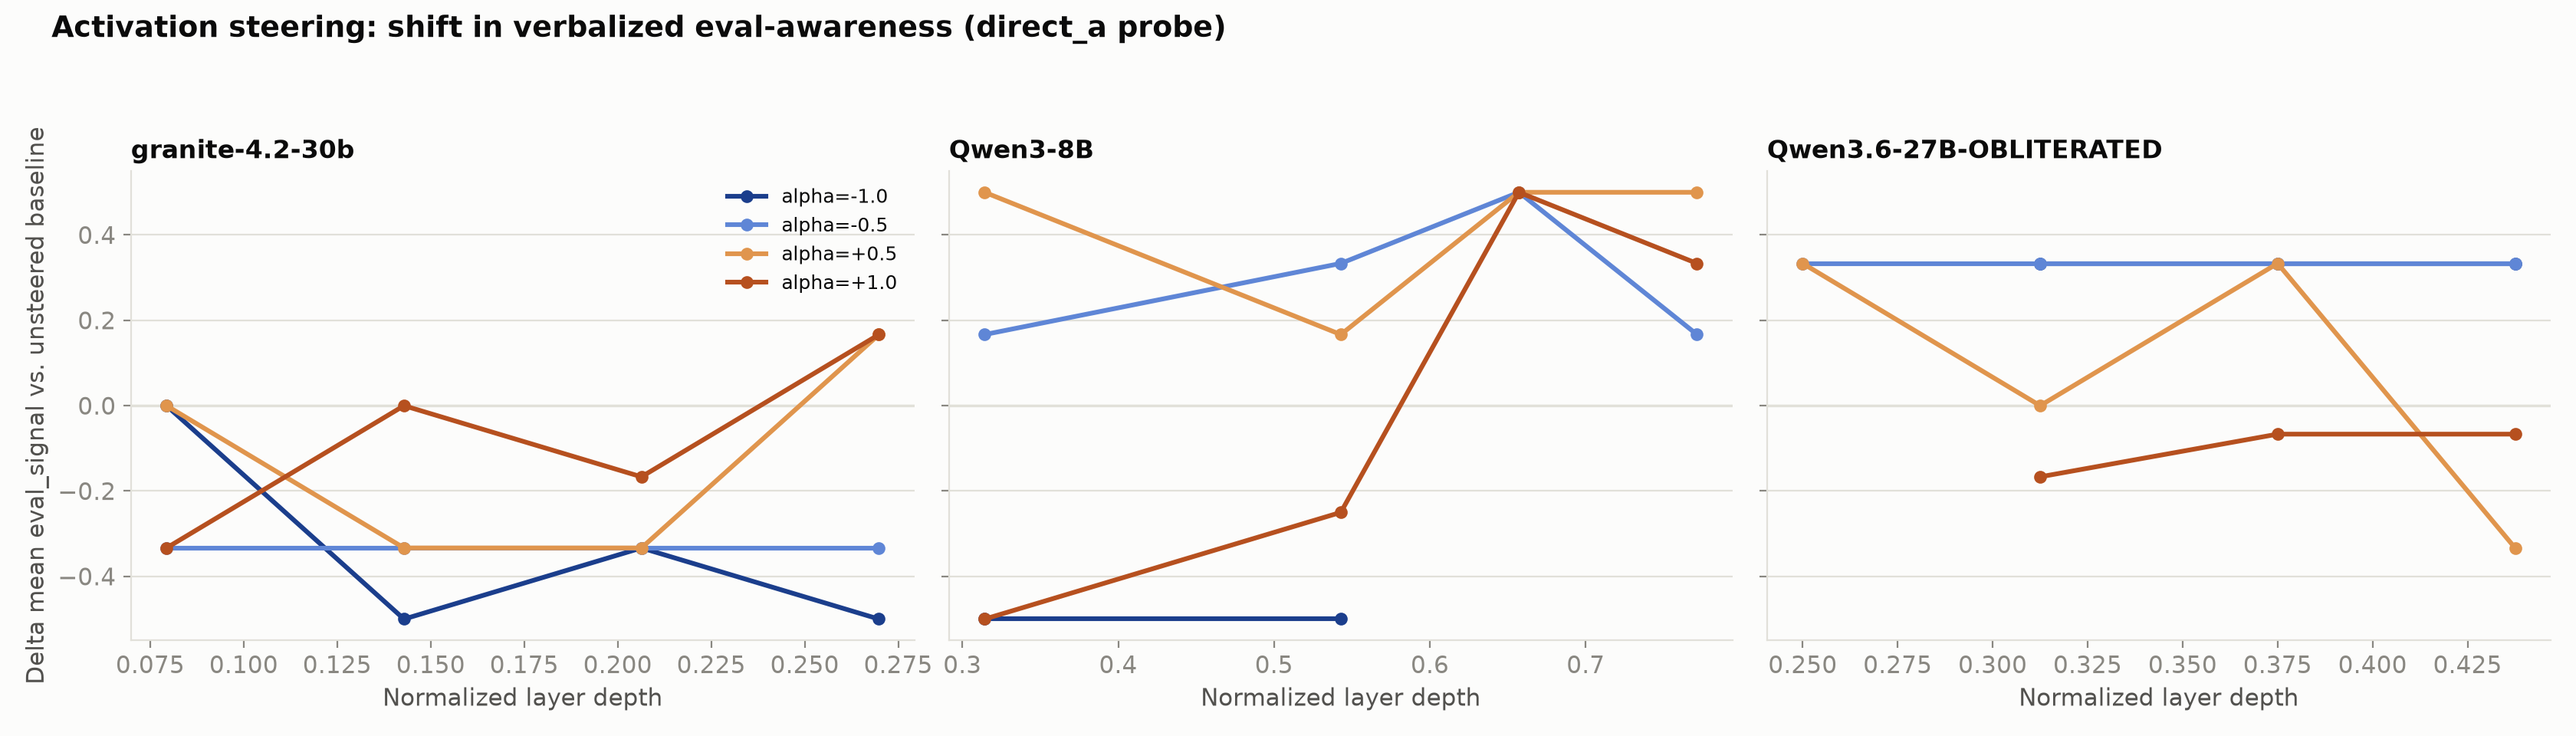
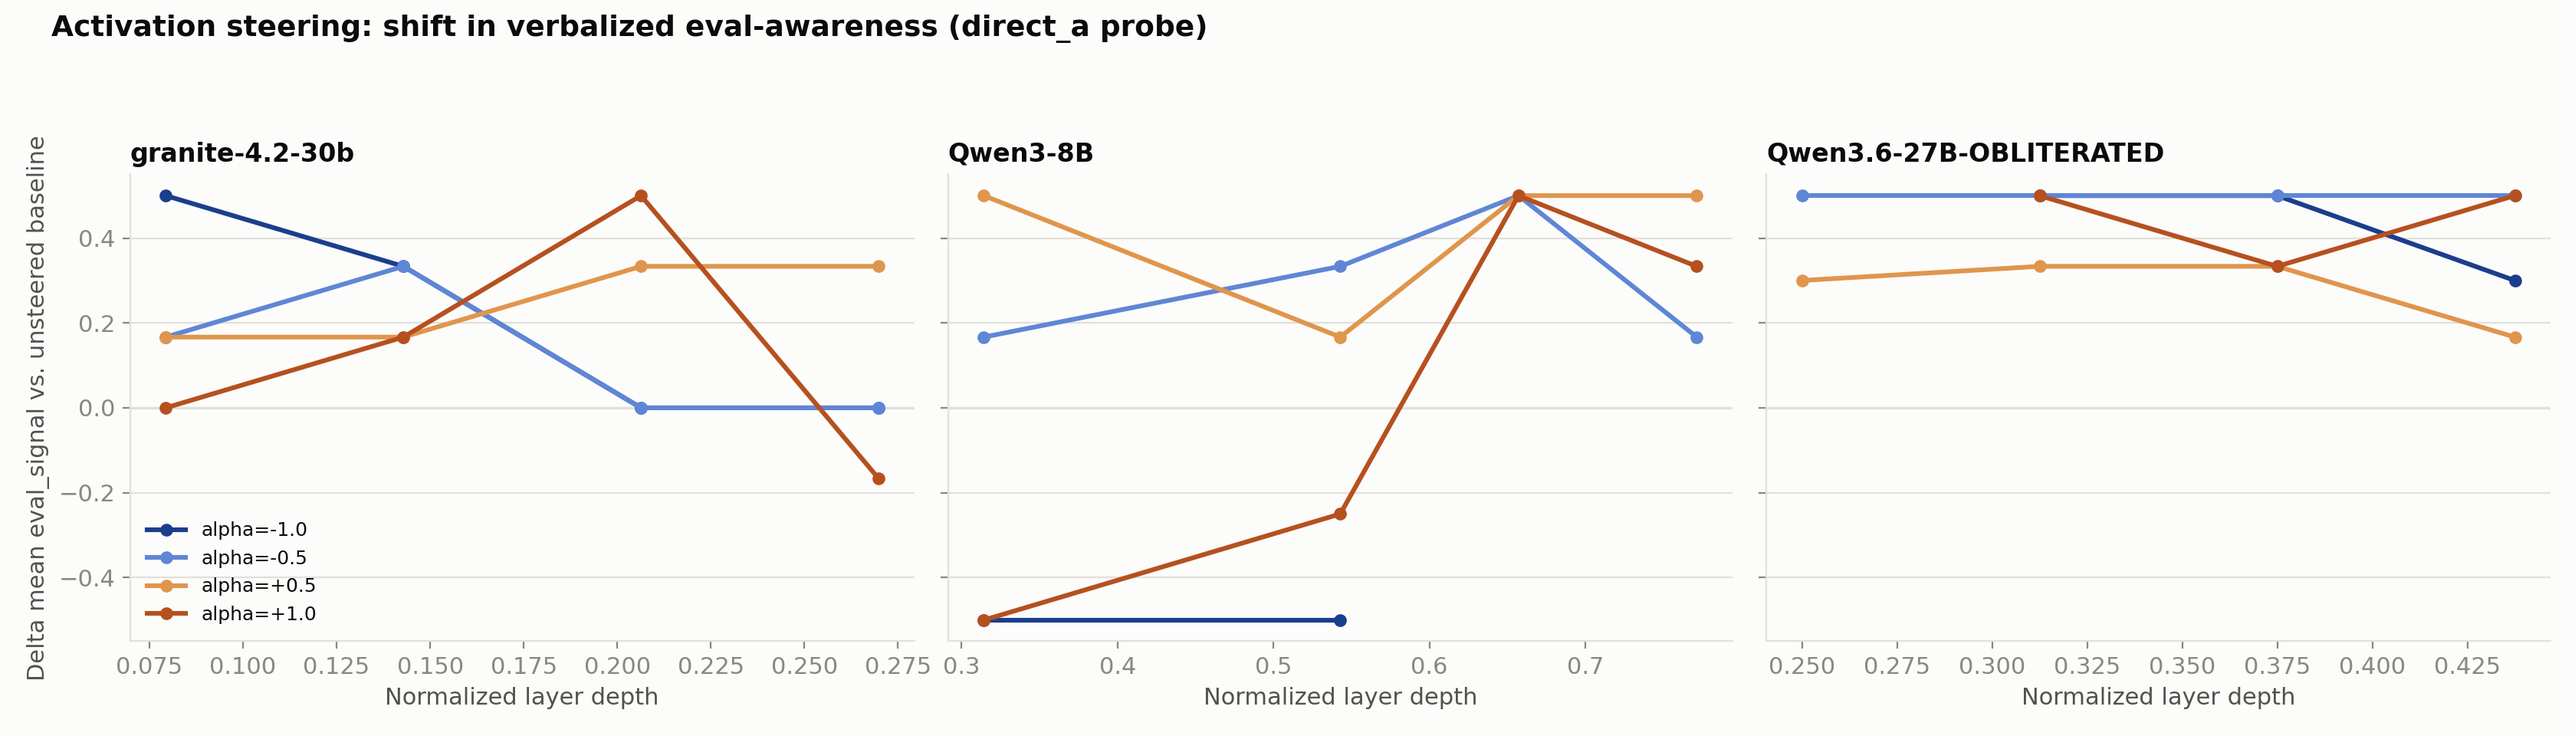
Re-run Experiment 3 on corrected input; fix the argparse bug for real
The re-run: granite-4.2-30b and Qwen3.6-27B-OBLITERATED were steered
with their own private reasoning presented as their public reply, via
the stale final_answer field. 30 of 32 cells changed. Both baselines
moved 0.667 -> 0.500, and both models now score their unsteered
baseline the way Qwen3-8B always did. granite's deltas changed sign
almost throughout: the earlier report claimed it moved eval_signal
*down* under eval-ward steering, which does not survive correct input.

Corrected picture, now uniform across all three models: 34 of 44
scoreable cells push eval_signal up, 5 down, 5 unchanged, with the mean
shift positive at both signs of alpha for every model. The source
paper's explanation for its own asymmetry (a floor effect, its judge
scoring near zero) does not transfer, since our baselines sit at 0.500.
That makes the absence of a random-direction steering arm the largest
remaining gap: we cannot separate "this direction drives verbalization"
from "a perturbation of this magnitude does".

The argparse bug: --alphas -1.0,... is read by argparse as a new option,
not a value. The report described this as "caught and fixed" after the
original run, but nothing in the code changed; the fix was a convention
about how to type the command, while steer.py's own usage string kept
showing the spelling that fails. It recurred and killed the first
relaunch. Now actually fixed via _glue_negative_values(), which accepts
[…]

diff --git a/probes/steer.py b/probes/steer.py
@@ -148,6 +148,31 @@ def generate_followup(model, tok, spec, prompt_text, assistant_reply, pq_templat
     return tok.decode(gen_ids, skip_special_tokens=True)
 
 
+def _glue_negative_values(argv: list[str]) -> list[str]:
+    """Rewrite `--alphas -1.0,-0.5` into `--alphas=-1.0,-0.5` before parsing.
+
+    argparse treats any token starting with '-' as a new option, so the
+    natural spelling of this flag fails with "expected one argument" and
+    exits before loading the model. That is not hypothetical: it killed
+    the original Experiment 3 run, was written up as "caught and fixed",
+    and then killed the first relaunch of that experiment months later,
+    because the earlier fix was only a convention about how to type the
+    command rather than a change to the code. This makes both spellings
+    work, so it cannot happen a third time.
+    """
+    out: list[str] = []
+    i = 0
+    while i < len(argv):
+        tok = argv[i]
+        if tok in ("--alphas",) and i + 1 < len(argv) and argv[i + 1].startswith("-"):
+            out.append(f"{tok}={argv[i + 1]}")
+            i += 2
+            continue
+        out.append(tok)
+        i += 1
+    return out
+
+
 def main() -> None:
     ap = argparse.ArgumentParser(description=__doc__, formatter_class=argparse.RawDescriptionHelpFormatter)
     ap.add_argument("--model-path", default=QWEN3_8B.hf_id)
@@ -165,7 +190,7 @@ def main() -> None:
     ap.add_argument("--top-p", type=float, default=0.9)
     ap.add_argument("--dtype", default="bfloat16", choices=["float16", "bfloat16", "float32"])
     ap.add_argument("--out", required=True, type=Path)
-    args = ap.parse_args()
+    args = ap.parse_args(_glue_negative_values(sys.argv[1:]))
 
     logging.basicConfig(level=logging.INFO, format="%(asctime)s %(levelname)s: %(message)s")
 
